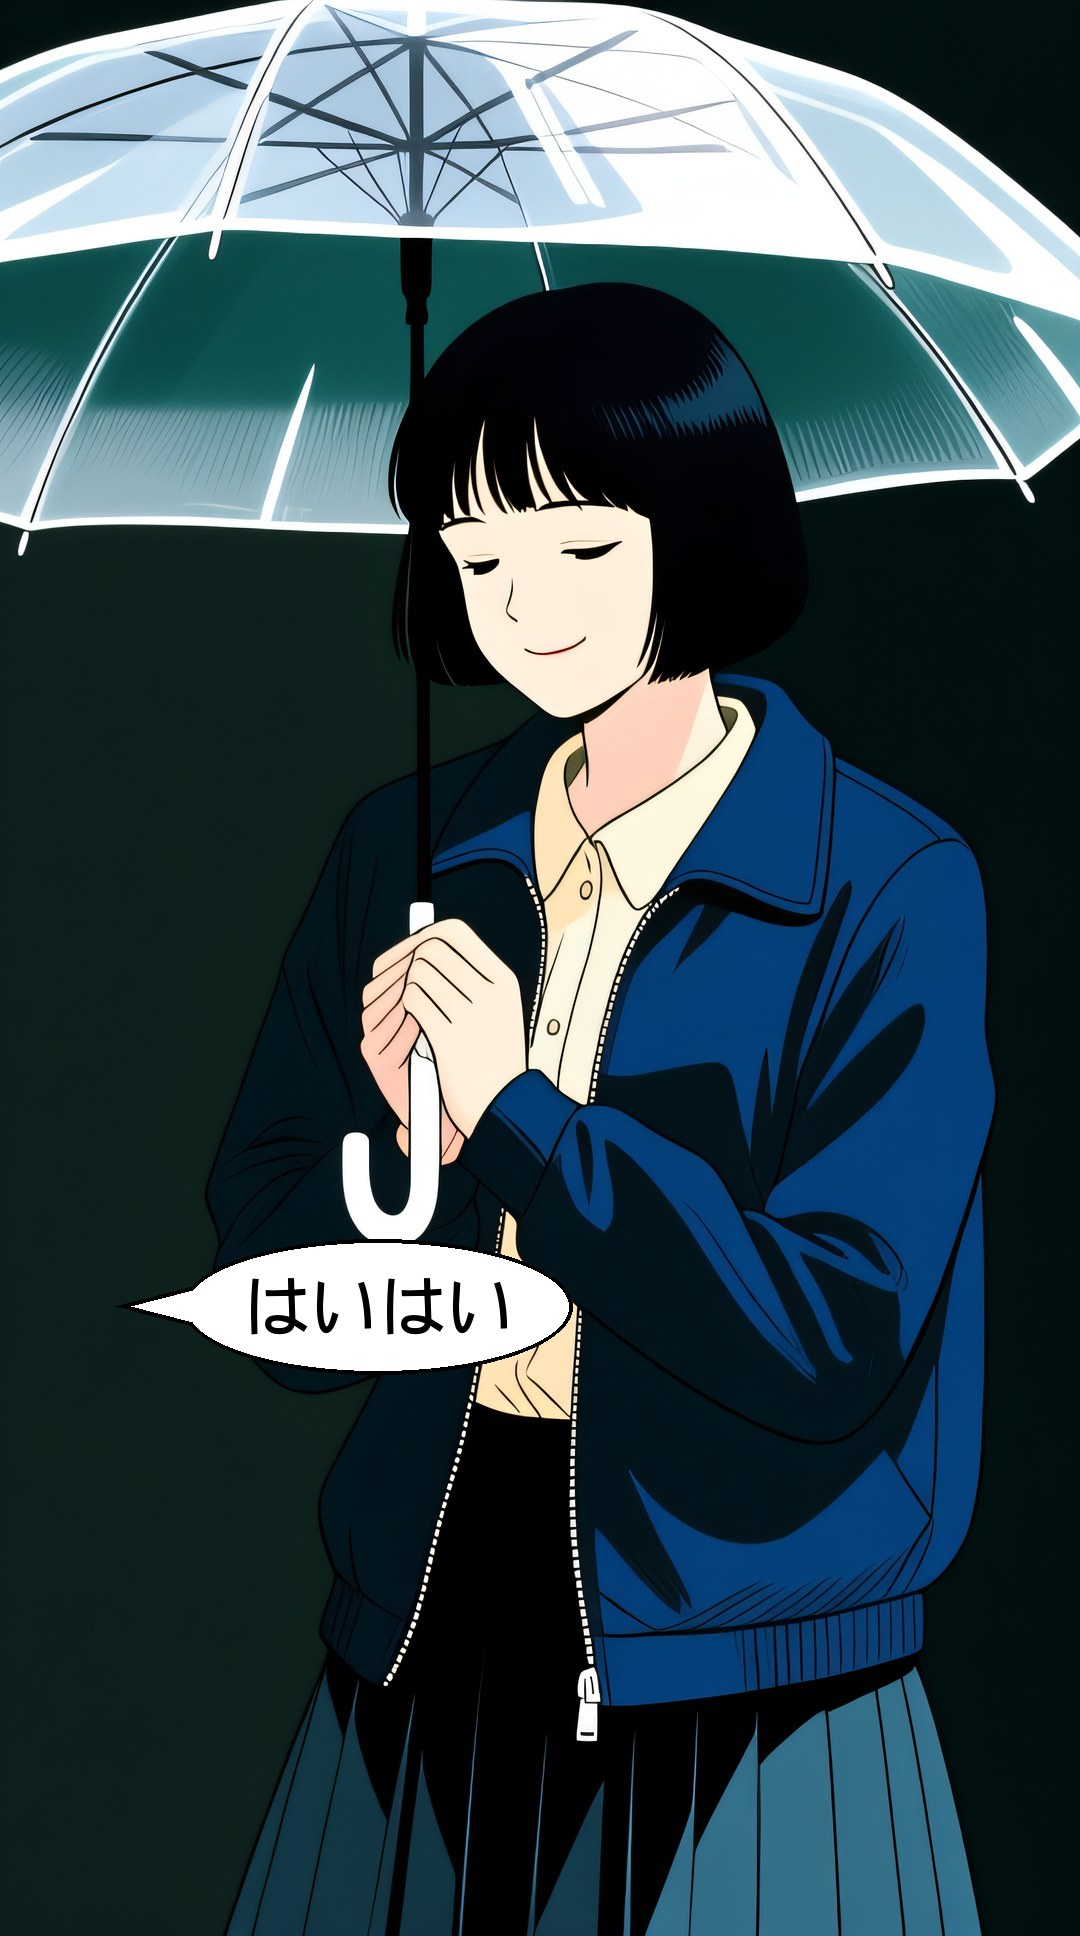
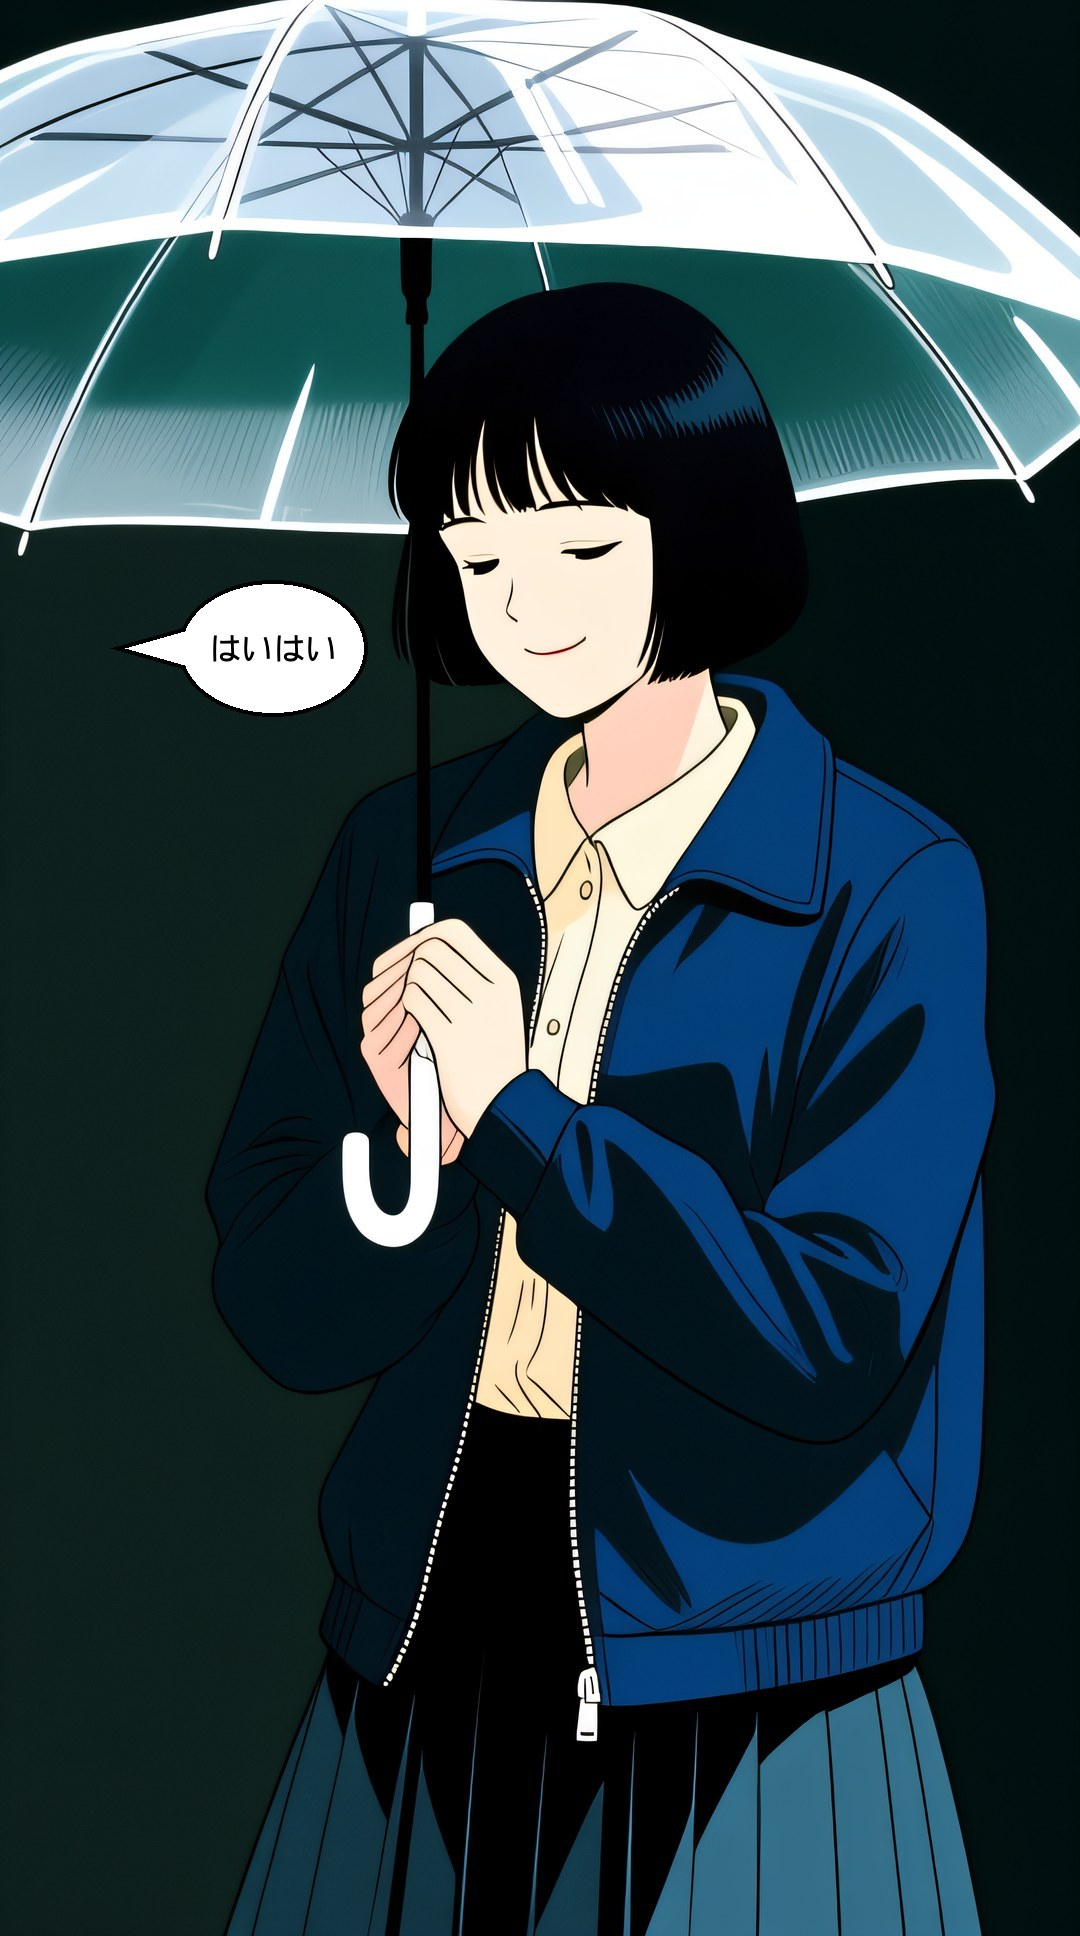
fix(comic): p08 hoch — „はいはい“ ins Dunkel links neben Miras Kopf
Die Off-Blase lag über Miras Brust; jetzt [0.165, 0.3, 0.175, 0.07],
ganz auf dem dunklen Hintergrund, Zeiger nach links zum Rand.

Claude-Session: https://claude.ai/code/session_01YT3vxdimKnf5CxqKiS26Tx

Changed region(s): [[0.1222, 0.6198, 0.55, 0.7128], [0.1222, 0.2789, 0.3361, 0.3719]]

diff --git a/lib/features/story/episodes/folge_01_layout.g.dart b/lib/features/story/episodes/folge_01_layout.g.dart
@@ -267,10 +267,10 @@ const List<Map<String, double>> f01HitQuerP08B0 = [
 
 /// p08 hoch: はいはい
 const List<Map<String, double>> f01HitHochP08B0 = [
-  {'x': 0.17, 'y': 0.64},
-  {'x': 0.53, 'y': 0.64},
-  {'x': 0.53, 'y': 0.71},
-  {'x': 0.17, 'y': 0.71},
+  {'x': 0.165, 'y': 0.3},
+  {'x': 0.34, 'y': 0.3},
+  {'x': 0.34, 'y': 0.37},
+  {'x': 0.165, 'y': 0.37},
 ];
 
 /// p09 quer: あめやどり
